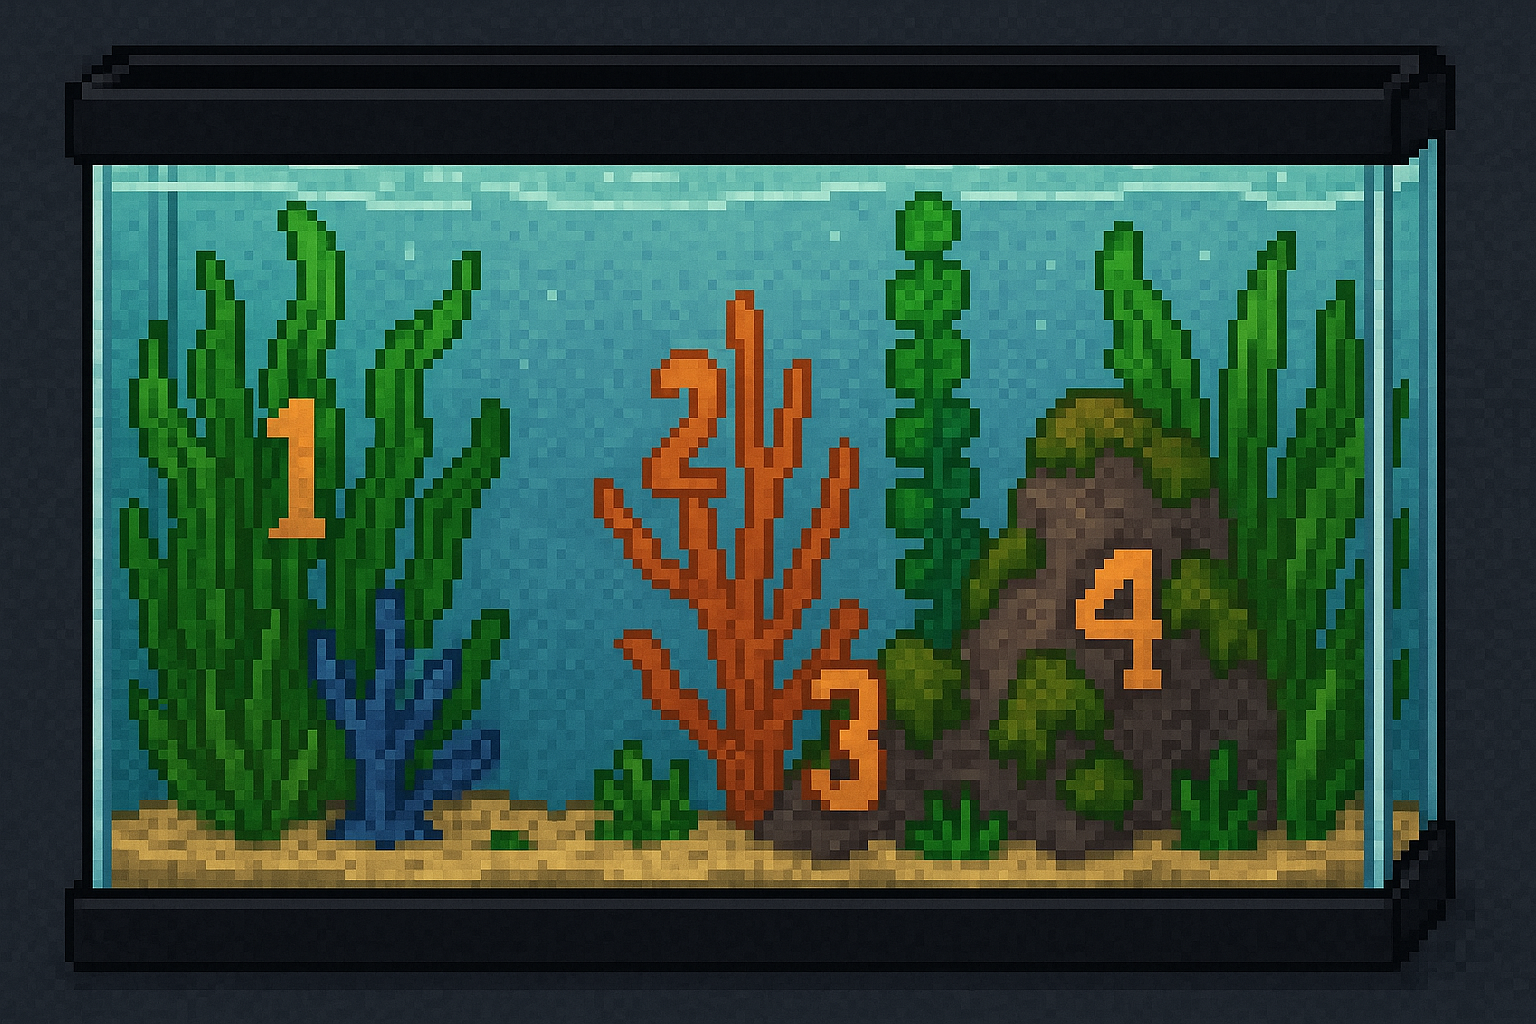
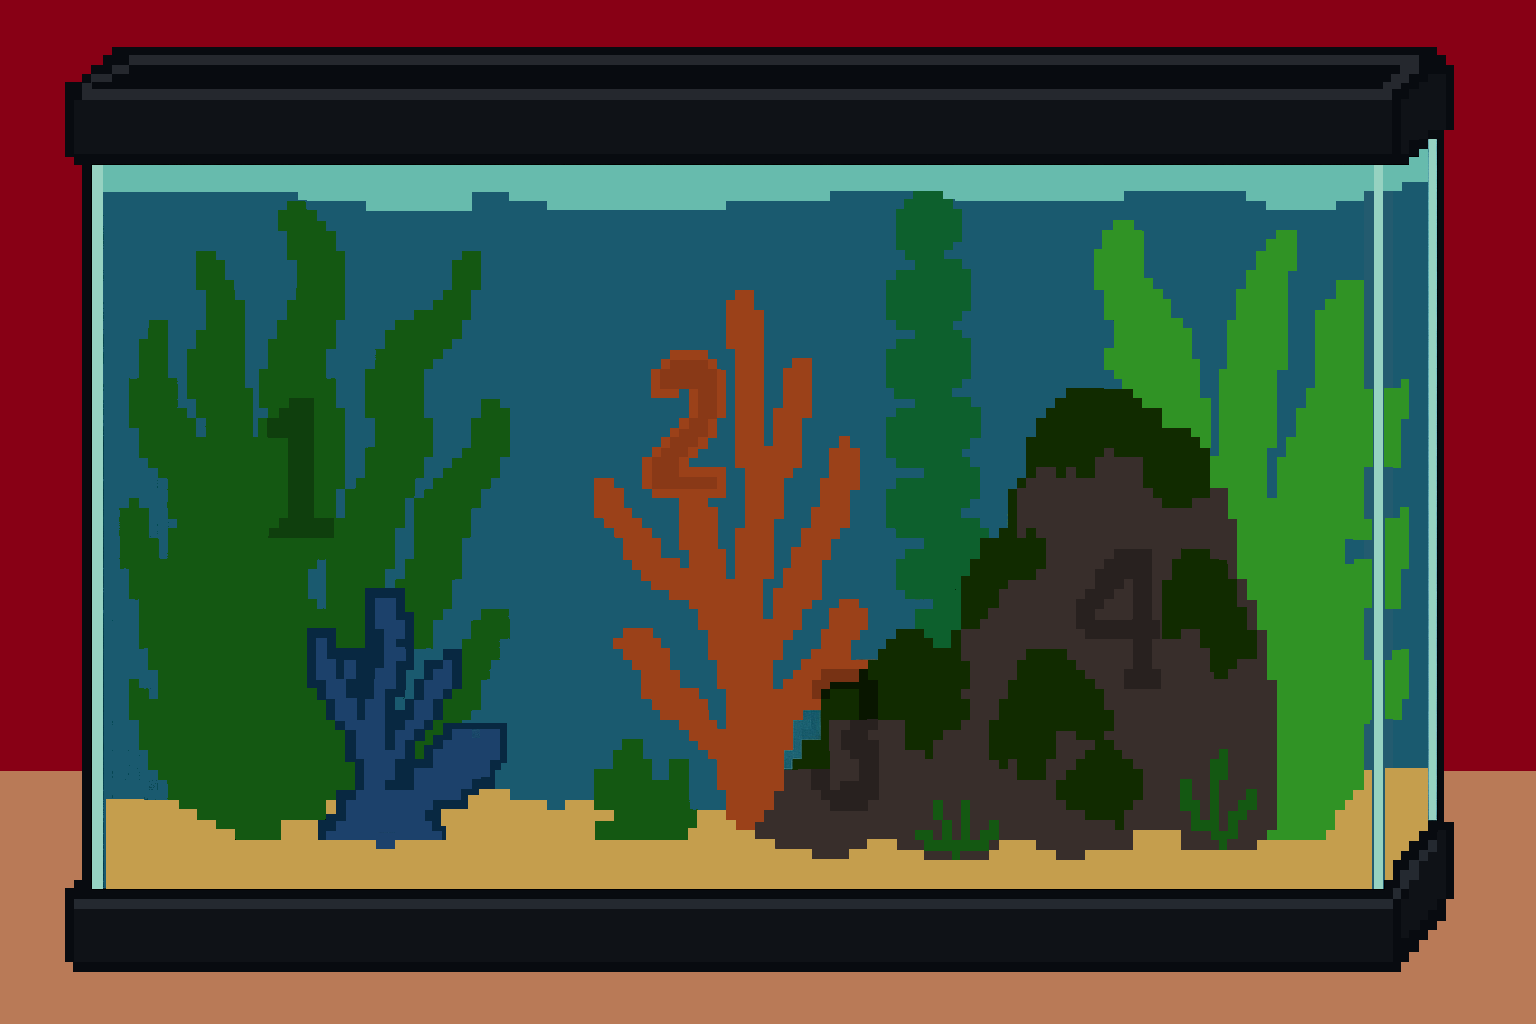
Added squeegee to table / Squeegee only shows and worked if equipped/ Lowered quality of fishtank

diff --git a/Rooms/Fishtank_puzzle.py b/Rooms/Fishtank_puzzle.py
@@ -2,6 +2,8 @@ import pygame
 import sys
 import random
 import math
+import Player
+import Items
 
 pygame.init()
 
@@ -85,18 +87,17 @@ def Room(screen, screen_res, events):
         algae = pygame.Surface(WINDOW_RES, pygame.SRCALPHA)
         algae.fill((0, 0, 0, 0))
         
-        
-        base_algae = pygame.Surface((GLASS_RECT.width, GLASS_RECT.height), pygame.SRCALPHA)
+        # Use final algae position and size
+        algae_rect = pygame.Rect(172, 230, 2119, 1023)
+        base_algae = pygame.Surface((algae_rect.width, algae_rect.height), pygame.SRCALPHA)
         base_algae.fill((*ALGAE_COLOR, 252))
         
-        
-        algae.blit(base_algae, (GLASS_RECT.left, GLASS_RECT.top))
+        algae.blit(base_algae, (algae_rect.left, algae_rect.top))
 
-        
         DARK_ALGAE = (60, 100, 40)
         for _ in range(200):
-            x = GLASS_RECT.left + random.randint(0, GLASS_RECT.width - 4)
-            y = GLASS_RECT.top + random.randint(0, GLASS_RECT.height - 4)
+            x = algae_rect.left + random.randint(0, algae_rect.width - 4)
+            y = algae_rect.top + random.randint(0, algae_rect.height - 4)
         
             pygame.draw.rect(algae, (*DARK_ALGAE, 252), pygame.Rect(x, y, 4, 4))
 
@@ -113,6 +114,8 @@ def Room(screen, screen_res, events):
         return True
 
     def cleared_fraction_in_box():
+        if algae is None:
+            return 0.0
         sub = algae.subsurface(BOX_RECT).copy()
         sub_mask = pygame.mask.from_surface(sub)
         remaining = sub_mask.count()
@@ -255,45 +258,47 @@ def Room(screen, screen_res, events):
         BRUSH_RADIUS = int(DIG_RADIUS * 2)
 
         if dragging:
-            if prev_vmx is not None and prev_vmy is not None:
-                prev_mx = int(prev_vmx * xScale)
-                prev_my = int(prev_vmy * yScale)
-                dx = mx - prev_mx
-                dy = my - prev_my
-                if abs(dx) > 2 or abs(dy) > 2:
-                    target_angle = get_angle(prev_mx, prev_my, mx, my)
-                    angle = smooth_angle_transition(angle, target_angle)
-                    last_angle = angle
-            else:
-                
-                angle = smooth_angle_transition(angle, last_angle)
+            # Only allow cleaning if squeegee is equipped
+            if Player.equipped is not None and Player.equipped.id == "squeegee":
+                if prev_vmx is not None and prev_vmy is not None:
+                    prev_mx = int(prev_vmx * xScale)
+                    prev_my = int(prev_vmy * yScale)
+                    dx = mx - prev_mx
+                    dy = my - prev_my
+                    if abs(dx) > 2 or abs(dy) > 2:
+                        target_angle = get_angle(prev_mx, prev_my, mx, my)
+                        angle = smooth_angle_transition(angle, target_angle)
+                        last_angle = angle
+                else:
+                    # 
+                    angle = smooth_angle_transition(angle, last_angle)
 
-            if prev_vmx is not None and prev_vmy is not None:
-                dx = vmx - prev_vmx
-                dy = vmy - prev_vmy
-                dist = max(abs(dx), abs(dy))
-                if dist > 0:
-                    for i in range(dist + 1):
-                        x = int(prev_vmx + dx * i / dist)
-                        y = int(prev_vmy + dy * i / dist) + DIG_OFFSET_Y
-                        if GLASS_RECT.collidepoint(x, y):
+                if prev_vmx is not None and prev_vmy is not None:
+                    dx = vmx - prev_vmx
+                    dy = vmy - prev_vmy
+                    dist = max(abs(dx), abs(dy))
+                    if dist > 0:
+                        for i in range(dist + 1):
+                            x = int(prev_vmx + dx * i / dist)
+                            y = int(prev_vmy + dy * i / dist) + DIG_OFFSET_Y
+                            if GLASS_RECT.collidepoint(x, y):
+                                # 
+                                squeegee_clean((x, y), (prev_vmx, prev_vmy + DIG_OFFSET_Y), BRUSH_RADIUS)
+                                if random.random() < PARTICLE_SPAWN_CHANCE:
+                                    spawn_sand_particles((x, y), PARTICLE_COUNT)
+                    else:
+                        if GLASS_RECT.collidepoint(vmx, vmy + DIG_OFFSET_Y):
+                            squeegee_clean((vmx, vmy + DIG_OFFSET_Y), None, BRUSH_RADIUS)
                             
-                            squeegee_clean((x, y), (prev_vmx, prev_vmy + DIG_OFFSET_Y), BRUSH_RADIUS)
                             if random.random() < PARTICLE_SPAWN_CHANCE:
-                                spawn_sand_particles((x, y), PARTICLE_COUNT)
+                                spawn_sand_particles((vmx, vmy + DIG_OFFSET_Y), PARTICLE_COUNT)
                 else:
                     if GLASS_RECT.collidepoint(vmx, vmy + DIG_OFFSET_Y):
                         squeegee_clean((vmx, vmy + DIG_OFFSET_Y), None, BRUSH_RADIUS)
                         
                         if random.random() < PARTICLE_SPAWN_CHANCE:
-                            spawn_sand_particles((vmx, vmy + DIG_OFFSET_Y), PARTICLE_COUNT)
-            else:
-                if GLASS_RECT.collidepoint(vmx, vmy + DIG_OFFSET_Y):
-                    squeegee_clean((vmx, vmy + DIG_OFFSET_Y), None, BRUSH_RADIUS)
-                    
-                    if random.random() < PARTICLE_SPAWN_CHANCE:
-                        spawn_sand_particles((vmx, vmy + DIG_OFFSET_Y), BRUSH_RADIUS)
-            prev_vmx, prev_vmy = vmx, vmy
+                            spawn_sand_particles((vmx, vmy + DIG_OFFSET_Y), BRUSH_RADIUS)
+                prev_vmx, prev_vmy = vmx, vmy
         else:
             prev_vmx, prev_vmy = None, None
             
@@ -306,7 +311,8 @@ def Room(screen, screen_res, events):
         
         virtual.fill((0, 0, 0))
         virtual.blit(bg_img, (0, 0))
-        virtual.blit(algae, (0, 0))
+        if algae is not None:
+            virtual.blit(algae, (0, 0))
 
         
         if dragging:
@@ -334,10 +340,11 @@ def Room(screen, screen_res, events):
         center_y = (screen_height - surf_height) // 2
         screen.blit(scaled, (center_x, center_y))
 
-        
-        rotated_squeegee = pygame.transform.rotate(squeegee_img, -angle)
-        rect = rotated_squeegee.get_rect(center=(mx, my))
-        screen.blit(rotated_squeegee, rect.topleft)
+        # Only show squeegee if it's equipped
+        if Player.equipped is not None and Player.equipped.id == "squeegee":
+            rotated_squeegee = pygame.transform.rotate(squeegee_img, -angle)
+            rect = rotated_squeegee.get_rect(center=(mx, my))
+            screen.blit(rotated_squeegee, rect.topleft)
 
         pygame.display.flip()
 

diff --git a/Rooms/SpotDiffs.py b/Rooms/SpotDiffs.py
@@ -18,6 +18,7 @@ background3 = pygame.image.load("Assets/spotDiffs3.png")
 
 found = 0
 collected = False
+squeegeeCollected = False
 exit = False
 goodEye = False
 played = False
@@ -71,6 +72,9 @@ letterRect = pygame.Rect(180,117,32,6)
 # Lockbox interact region rectangle 
 lockboxRect = pygame.Rect(165, 110, 60, 35)
 
+# Squeegee pickup rectangle
+squeegeeRect = pygame.Rect(185, 145, 30, 15)
+
 eye_squish_sound = Sounds.loadAudio("Audio/eyeSquish.wav")
 eye_squish_sound.set_volume(.5)
 
@@ -88,7 +92,7 @@ def positionDeterminer(cameFrom):
     pass
 
 def Room(screen, screen_res, events):
-    global exit, goodEye, collected, mat, stem, corner, water, light, backgroundDiff, found, played, lockboxExit
+    global exit, goodEye, collected, squeegeeCollected, mat, stem, corner, water, light, backgroundDiff, found, played, lockboxExit
     xScale = screen.get_width()/virtual_screen.get_width() 
     yScale = screen.get_height()/virtual_screen.get_height()
 
@@ -134,6 +138,10 @@ def Room(screen, screen_res, events):
                     elif lockboxRect.collidepoint(mouse_pos):
                         global lockboxExit
                         lockboxExit = True
+                    elif squeegeeRect.collidepoint(mouse_pos) and not squeegeeCollected:
+                        if (Player.addItem(Items.squeegee)):
+                            Sounds.pickup.play()
+                            squeegeeCollected = True
                     if found == 6 and not goodEye:
                         goodEye = True
                         goodEYEtext.activated_time = pygame.time.get_ticks()
@@ -157,6 +165,10 @@ def Room(screen, screen_res, events):
             index += 1
 
     goodEYEtext.update()
+
+    # Draw squeegee sprite if not collected
+    if not squeegeeCollected:
+        virtual_screen.blit(Assets.squeegeeGround, squeegeeRect.topleft)
 
     scaled = pygame.transform.scale(virtual_screen, screen_res)
     screen.blit(scaled, (0, 0))

diff --git a/Items.py b/Items.py
@@ -44,4 +44,6 @@ lighter = Item("lighter", "Lighter", "A device that produces a small flame", Ass
 
 herbicide = Item("herbicide", "Herbicide", "A concoction fatal to many plants", Assets.herbicide, Assets.herbicide, "equip")
 
+squeegee = Item("squeegee", "Squeegee", "A cleaning tool with a flat rubber blade used to scrape away green growth and grime", Assets.squeegeeInv, Assets.squeegeeGround, "equip")
+
 valve = Item("valve", "Valve Handle", "A steel valve handle, used to rotate stuff", Assets.airlockValveInv, Assets.airlockValve, "equip") # TODO: Add bigger valve sprite for inventory

diff --git a/Assets.py b/Assets.py
@@ -257,5 +257,8 @@ lighterBed = pygame.image.load("Assets/LighterBed.png")
 
 herbicide = pygame.image.load("Assets/herbicide.png")
 
+squeegeeInv = pygame.transform.scale(pygame.image.load("Assets/Squeegee.png"), (pygame.image.load("Assets/Squeegee.png").get_width() * 3, pygame.image.load("Assets/Squeegee.png").get_height() * 3))
+squeegeeGround = pygame.image.load("Assets/Squeegee.png")
+
 airlockValve = pygame.image.load("Assets/airlock_valve.png")
 airlockValveInv = pygame.image.load("Assets/airlock_valve_inv.png")
